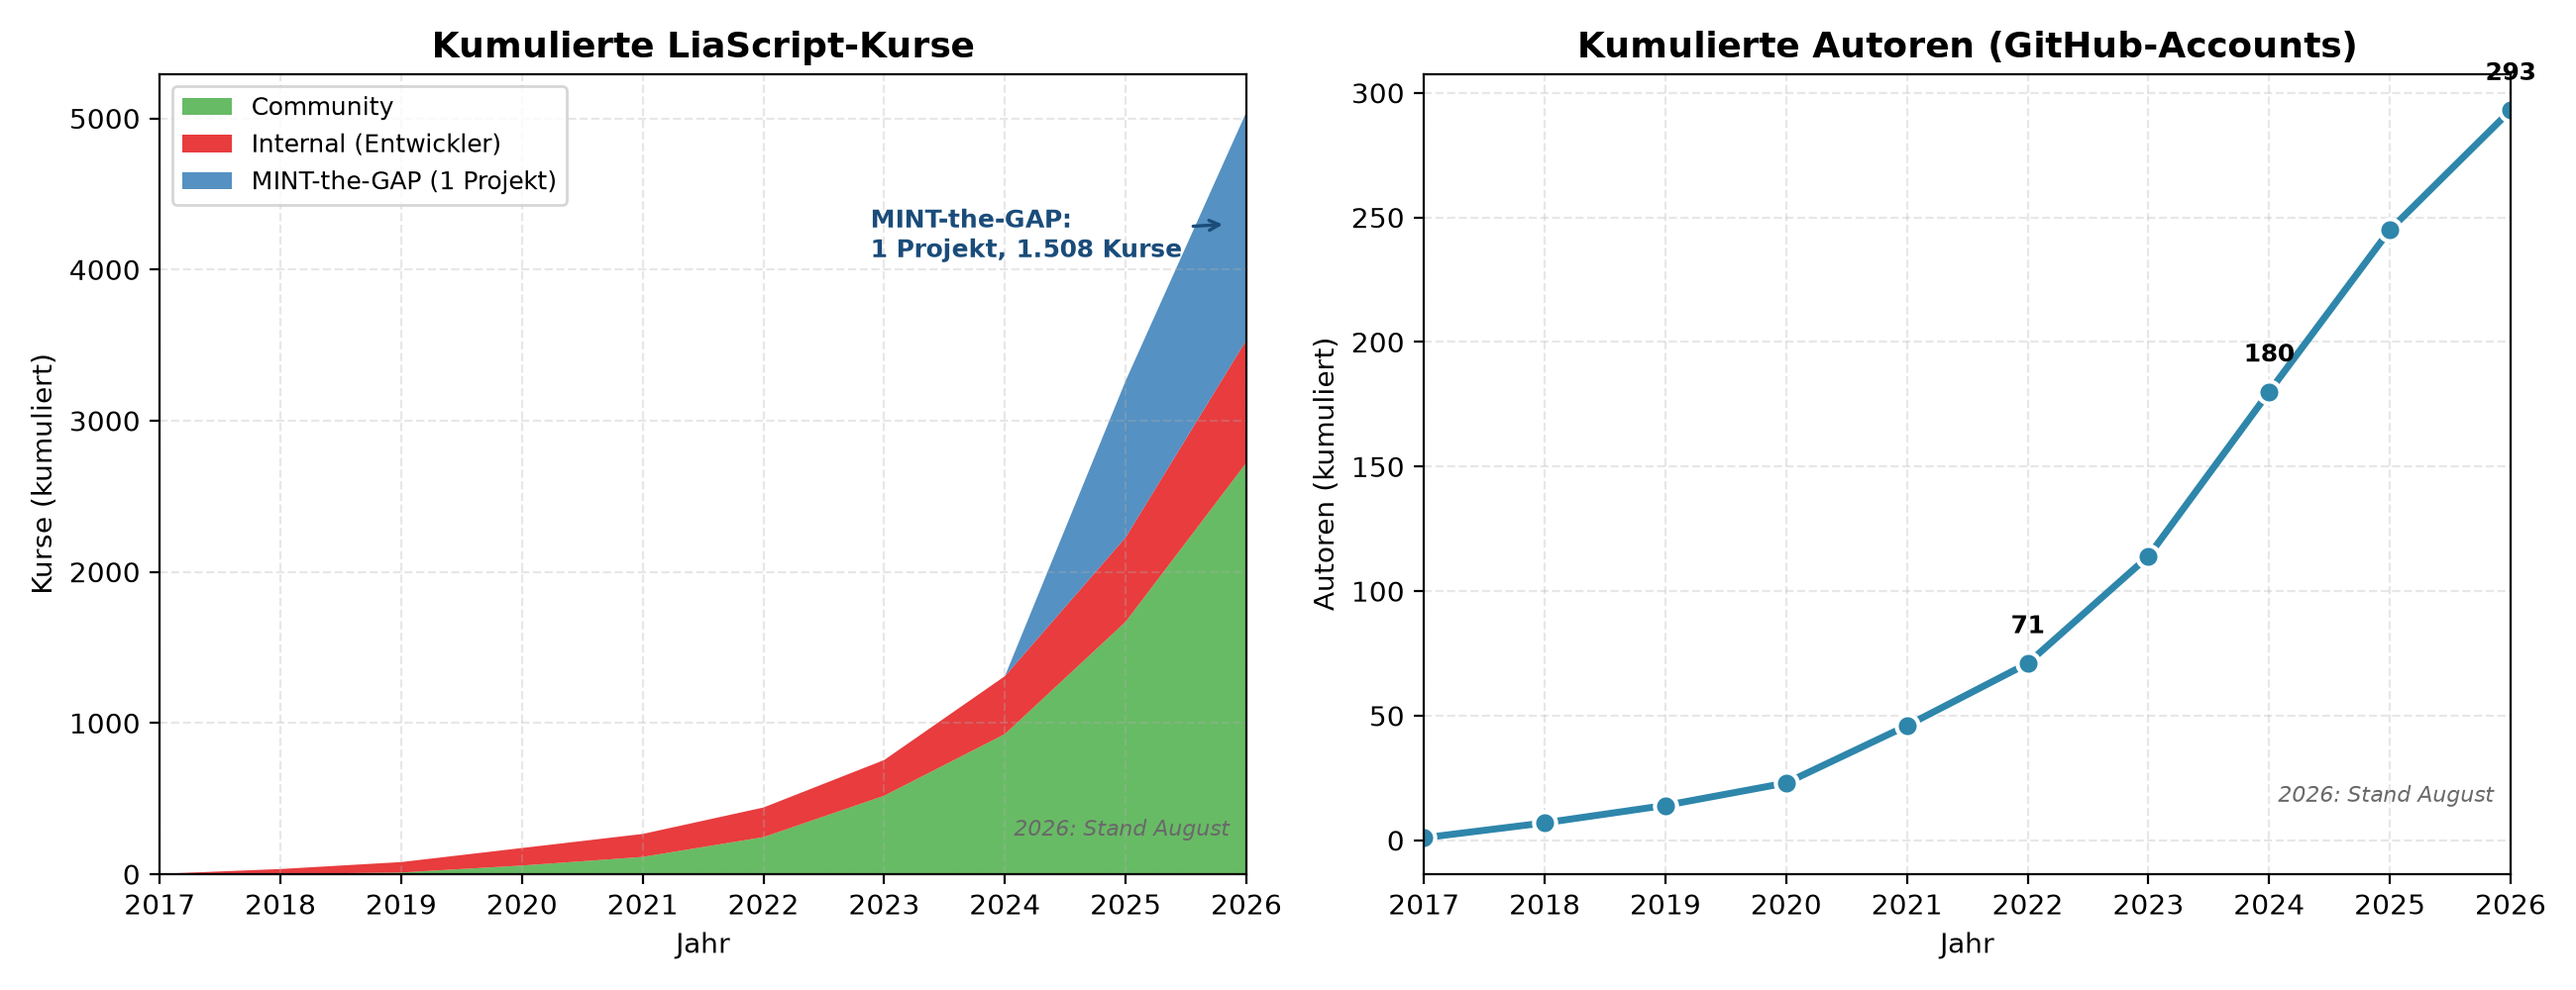
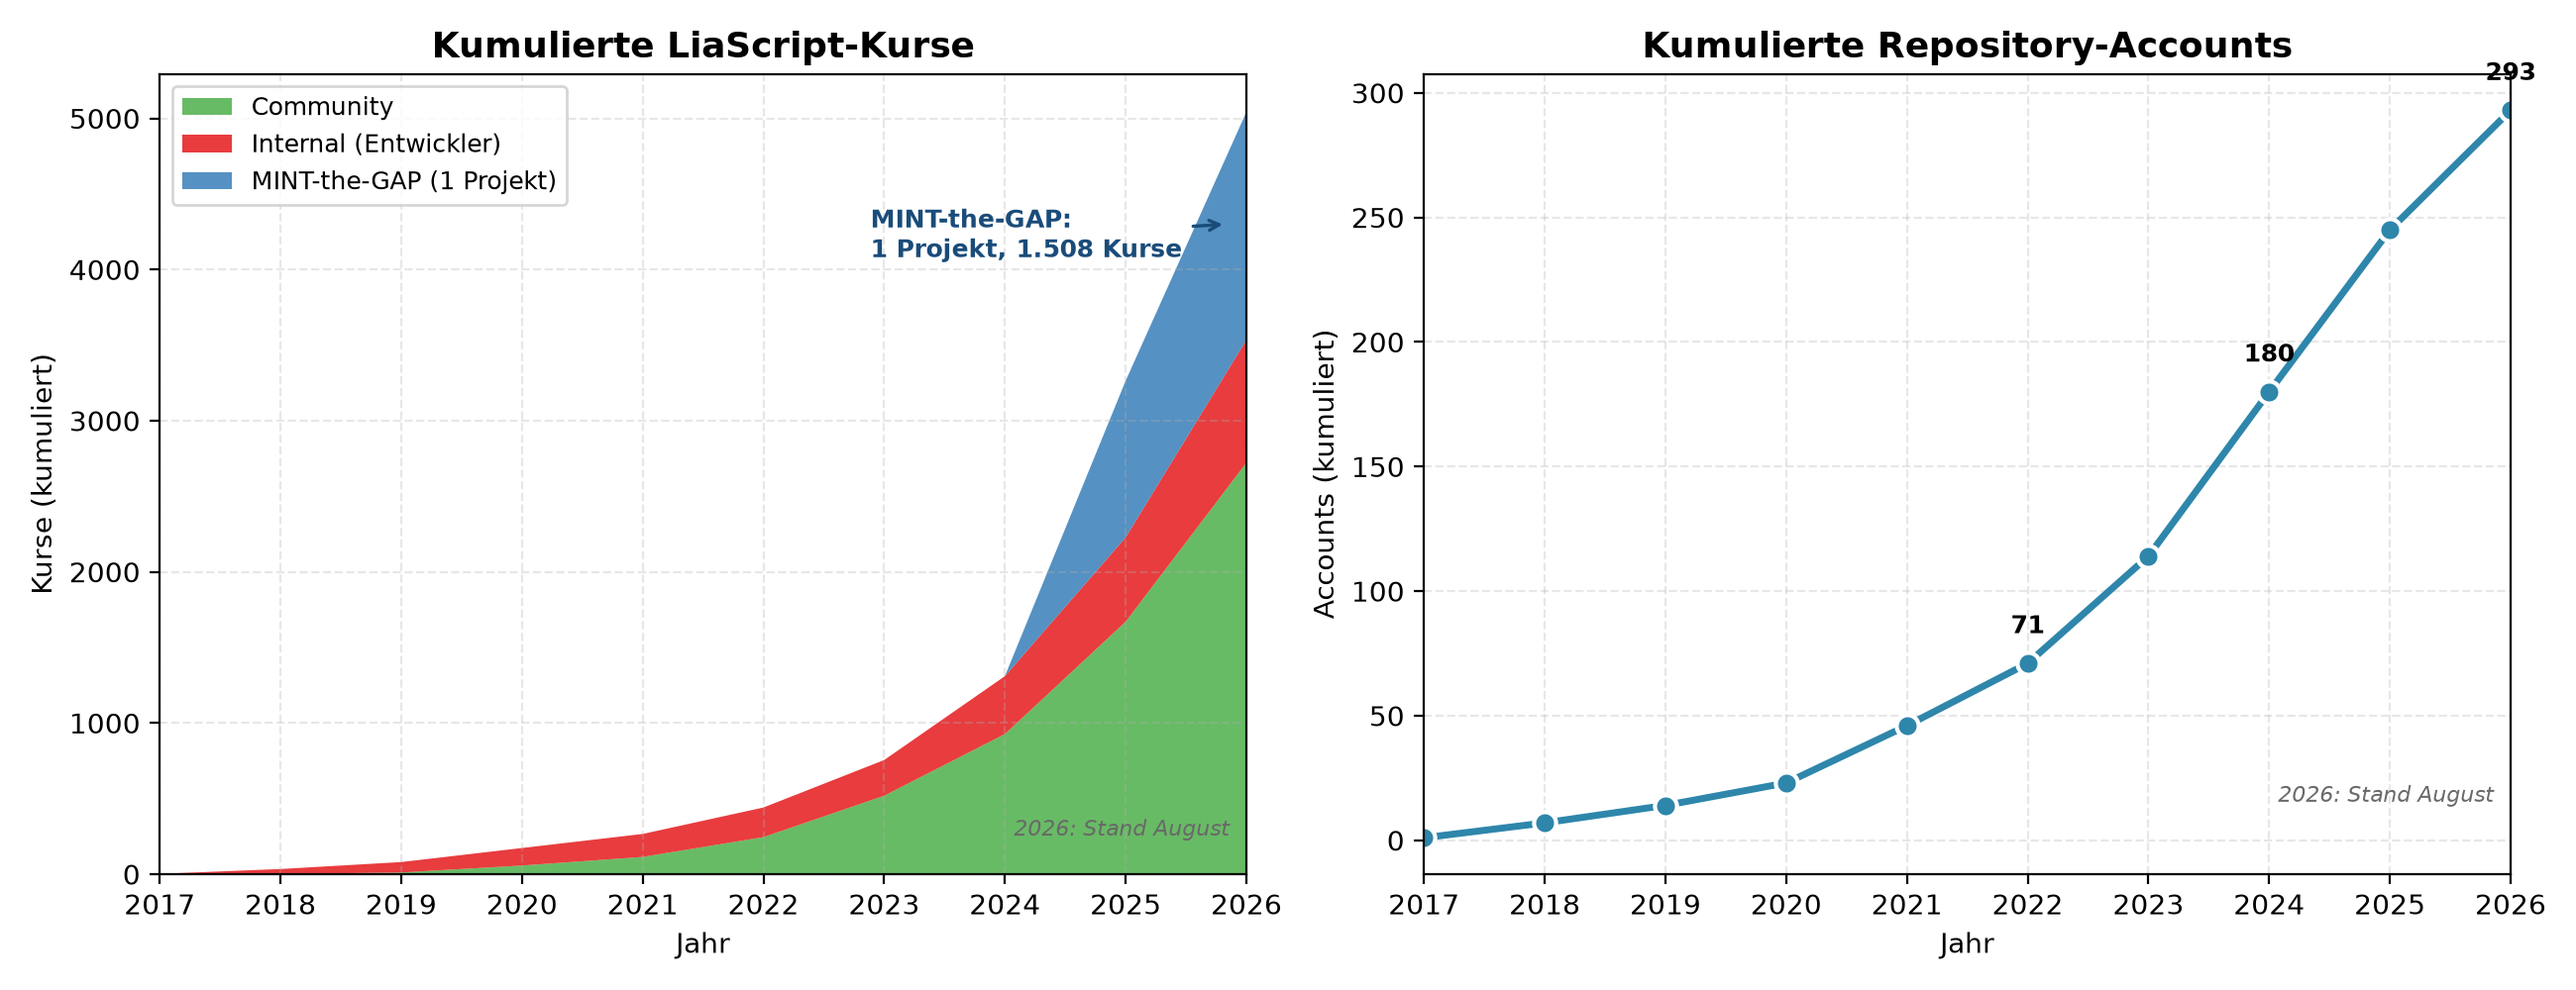
Add pipeline diagram, relabel growth figure, local edits
- "Die Verarbeitungskette" now carries the paper's Fig. 3 rebuilt as a
  mermaid graph (1,076 repos -> 57,096 files -> 3,317 courses -> 2,973),
  with speaker notes
- growth figure axis relabelled: repository accounts, not authors
  (the paper counts 314 committers across 205 accounts)
- corpus slide distinguishes committers from repository accounts and
  notes the March 2026 vintage
- details/summary block for the school-course example fixed
- adds the paper's first page as a screenshot

diff --git a/README.md b/README.md
@@ -58,84 +58,94 @@ edit: true
 
 # Designed but Not Used?
 
-<h2>Feature-Adoption in einem System ohne Telemetrie</h2>
-
-<h4>Sebastian Zug, André Dietrich, Ines Aubel, Martin Lommatzsch, Volker Göhler</h4>
-
-<h4>TU Bergakademie Freiberg · Geschwister-Scholl-Gymnasium Freiberg</h4>
+<h2>A Feature Adoption Analysis of LiaScript Courses</h2>
 
 <div class="cols">
 <div>
 
 > __DELFI 2026 — Die 24. Fachtagung Bildungstechnologien__
 >
-> __September 2026__
+> __Potsdam, September 2026__
 
-Dieser Foliensatz steht unter einer Creative-Commons-Lizenz (CC BY 4.0). Der Quelltext liegt auf [GitHub](https://github.com/LiaPlayground/DELFI_2026_presentation).
 
 </div>
 <div>
 
-![Kumulierte Kurse und Autoren 2017–2026](img/growth.png "Wachstum der LiaScript-Community 2017–2026")
+> **Sebastian Zug$^1$, André Dietrich$^1$, Ines Aubel$^1$, Martin Lommatzsch$^2$, Volker Göhler$^1$**
+>
+> **$^1$TU Bergakademie Freiberg, $^2$Geschwister-Scholl-Gymnasium Freiberg**
+
+
+</div>
+</div>
+
+<div class="cols">
+<div>
+
+Das zugehörige Paper finden Sie in der Digitalen Bibliothek der GI unter [Link](https://dl.gi.de/items/4da2a537-6a46-4f90-9276-618d41e8409b)
+
+![](img/DELFI_Screenshot.png)<!-- style="height:250px" -->
+
+</div>
+<div>
+
+Dieser Vortrag ist unter folgenden [Link](https://liascript.github.io/course/?https://raw.githubusercontent.com/LiaPlayground/DELFI_2026_presentation/main/README.md) zu finden.
+
+[qr-code](https://liascript.github.io/course/?https://raw.githubusercontent.com/LiaPlayground/DELFI_2026_presentation/main/README.md)
 
 </div>
 </div>
 
 ---
 
---{{0}}--
-Herzlich willkommen. Wir haben ein Werkzeug gebaut, das bewusst keine Daten
-über seine Nutzung sammelt — und stehen damit vor einem Problem: Wir wissen
-nicht, was die Leute damit tun. In den nächsten zwanzig Minuten zeige ich
-Ihnen, wie wir das trotzdem herausgefunden haben, und was dabei für unsere
-eigenen Workshops herauskam.
-
-## Was Sie hier gerade sehen
-
-> [!IMPORTANT]
-> **Dieser Vortrag ist selbst ein LiaScript-Dokument und damit eine Textdatei.**
-
-Eine einzige Markdown-Datei, die in Ihrem Browser gerendert wird. Kein Server,
-keine Installation, kein Konto.
+Dieser Foliensatz steht unter einer Creative-Commons-Lizenz (CC BY 4.0). Der Quelltext liegt auf [GitHub](https://github.com/LiaPlayground/DELFI_2026_presentation).
 
 --{{0}}--
-Was Sie gerade sehen, ist selbst ein LiaScript-Kurs — genau das Werkzeug, über
-das wir gleich sprechen. Keine Präsentationssoftware, sondern eine Textdatei,
-die Ihr Browser darstellt.
+Herzlich willkommen. Diese Annotationen fassen die Erläuterungen im Zusammenhang mit der Vorstellung des Papers anlässlich der DELFI 2026 zusammen. Ausgehend vom 
 
-# Teil 1 — LiaScript
+# Was ist LiaScript?
 
-> [!IMPORTANT]
+> [!TIP]
 > **LiaScript ist Markdown — erweitert um genau die Elemente, die für
-> interaktive Lehre fehlen.**
+> interaktive Lehre fehlen. Dabei bleibt alles ein Text - den man beliebig verändern und kompieren kann.**
 
 --{{0}}--
 Zunächst kurz: Was ist LiaScript überhaupt? Für alle, die es noch nicht kennen.
 
-## Ein Kurs ist ein Text
+````markdown @embed.style(height: 520px; min-width: 100%; border: 1px black solid)
+<!--
+import: https://raw.githubusercontent.com/liaTemplates/ABCjs/main/README.md
+-->
+# TU Bergakademie Freiberg
 
-> __Alles wird als reiner Text geschrieben. Probieren Sie es aus — links
-> ändern, rechts zusehen.__
+**Standard Markdown**
 
-```markdown @embed.style(height: 520px; min-width: 100%; border: 1px black solid)
-# Sortierverfahren
+Die Bergakademie wurde **1765** gegründet und ist damit die älteste noch bestehende ~~Montanuniversität~~.
 
-Ein Verfahren ist **effizient**, wenn es mit wachsender Datenmenge
-nicht ~~überproportional~~ langsamer wird.
+**Quizz**
 
-Bubble Sort benötigt $\mathcal{O}(n^2)$ Vergleiche.
+Welches Element wurde in Freiberg entdeckt?
 
-| Verfahren   | Vergleiche              | stabil |
-| ----------- |:-----------------------:| ------:|
-| Bubble Sort | $\mathcal{O}(n^2)$      | ja     |
-| Merge Sort  | $\mathcal{O}(n \log n)$ | ja     |
+[[ (Germanium|Indium) ]]
 
-Welches Verfahren ist **nicht** stabil?
+**Interaktion**
 
-[( )] Bubble Sort
-[(X)] Quick Sort
-[( )] Merge Sort
+``` abc
+X:353
+T: GLUECK AUF DER STEIGER KOEMMT
+N: E1512
+O: Europa, Mitteleuropa, Deutschland
+R: Staende -, Bergmanns - Lied
+M: 4/4
+L: 1/16
+K: G
+| G8F4A4 | G8z8 | B8A4c4 | B8z4G2A2 | B4B4B4A2B2 | c4A3AA4
+A2B2 | c4c4c4B2c2 | d4B3BB4A4 | G8F8 | G4e4d4c2A2 | B8A8 | G8z8
 ```
+@ABCJS.eval
+
+??[Familienschacht Freiberg](https://sketchfab.com/3d-models/familienschacht-freiberg-germany-7c7d30506c554385a4a4321366e2e601 "Quelle: sketchfab.com")
+````
 
 --{{0}}--
 Links der Quelltext, rechts das Ergebnis. Formatierung, Mathematik, Tabellen
@@ -143,6 +153,9 @@ und Quizze — alles in einer Textdatei, alles sofort im Browser. Genau diese
 Bausteine sind es, deren Nutzung wir später vermessen.
 
 ## Sovereignty by Design
+
+> [!IMPORTANT]
+> LiaScript Dokumente werden im Browser interpretiert - die Ausführungsumgebung läuft lokal. 
 
 <div class="cols">
 <div>
@@ -154,7 +167,7 @@ Bausteine sind es, deren Nutzung wir später vermessen.
 </div>
 <div>
 
-> __Autor:innen behalten die volle Kontrolle über ihre Inhalte.__
+> __Autor:innen behalten die volle Kontrolle über ihre Inhalte bzw. teilen diese sehr einfach.__
 >
 > Wir wissen dafür **nicht**, wie LiaScript verwendet wird.
 
@@ -166,97 +179,82 @@ Das ist eine bewusste Designentscheidung: keine Server, keine Konten, keine
 Telemetrie. Für offene Bildungsressourcen ist das genau richtig. Aber es hat
 einen Preis — und der ist der Ausgangspunkt dieses Papers.
 
-## Die Community wächst
+## Die Community wächst ...
 
 ![Kumulierte Kurse und Autoren 2017–2026](img/growth.png)
 
 <div class="bigfact">
-<div class="num">293</div>
-<div class="cap">Autor:innen · 5.042 Kurse (Stand August 2026)</div>
+<div class="num">5.042</div>
+<div class="cap">Kurse in 293 Repository-Accounts · Stand August 2026</div>
 </div>
 
---{{0}}--
-Und es wird benutzt. Seit 2017 wächst die Zahl der Kurse und Autorinnen
-exponentiell. Inzwischen sind es fast dreihundert unabhängige Autor:innen.
-Das ist keine Werkzeugnutzung mehr, das ist eine Community.
+> __... und damit die Nachfrage nach Tutorials und Workshops.__
 
-     {{1}}
-> Die blaue Fläche ist **ein einziges Projekt**. Merken Sie sich das.
-
---{{1}}--
-Eine Sache fällt auf: Diese blaue Fläche ab 2025 ist kein Community-Wachstum,
-sondern ein einzelnes Projekt mit über tausend Kursen. Merken Sie sich das,
-wir kommen darauf zurück.
-
-# Teil 2 — Das Problem
+# Das Problem
 
 > [!IMPORTANT]
-> **Wir bauen Workshops und Tutorials. Für wen eigentlich?**
+> **Wer ist eigentlich die Zielgruppe und welche Feature sollten dort fokussiert werden?**
 
---{{0}}--
-Jetzt zum eigentlichen Problem — und das ist kein LiaScript-Problem, sondern
-eines, das viele von Ihnen kennen dürften.
+<details>
+<summary>Sachkundeunterricht Klasse 4 - Adrian Nemetschek - ([Link zum Material](https://github.com/aua-einiges/LiaScript_Sachunterricht_Lernbereich3/blob/main/DL_Sachunterricht1_Nem%20(1).md)</summary>
 
-## Entscheidungen ohne Datengrundlage
+<iframe
+  src="https://liascript.github.io/course/?https://raw.githubusercontent.com/aua-einiges/LiaScript_Sachunterricht_Lernbereich3/main/DL_Sachunterricht1_Nem%20(1).md#3"
+  style="width:100%; height:80vh; border:1px solid #ccc"
+  allowfullscreen>
+</iframe>
 
-Wir führen regelmäßig Workshops durch — und entscheiden dabei laufend:
+</details>
 
-     {{0}}
-- Welche Features zeigen wir zuerst?
-- Was lassen wir weg?
-- Wo hakt es in der Praxis?
+<details>
+<summary>Fonts Template für wissenschaftliche Community - André Dietrich - ([Link zum Material](https://liascript.github.io/course/?https://raw.githubusercontent.com/LiaPlayground/Fonts/main/README.md#6))</summary>
 
-     {{1}}
-> [!WARNING]
-> **Bisher: Bauchgefühl.**
+<iframe
+  src="https://liascript.github.io/course/?https://raw.githubusercontent.com/LiaPlayground/Fonts/main/README.md#2"
+  style="width:100%; height:80vh; border:1px solid #ccc"
+  allowfullscreen>
+</iframe>
 
---{{0}}--
-Bei jedem Workshop stellt sich dieselbe Frage: Womit fangen wir an? Was ist
-wichtig, was können wir weglassen? Und ehrlicherweise haben wir das bisher
-nach Gefühl entschieden.
+</details>
 
---{{1}}--
-Wir hatten schlicht keine Grundlage für diese Entscheidungen.
+> [!TIP]
+> __Die Vermutung, dass unterschiedliche Anwendungskontexte eine verschiedene Nutzungsmuster zeigen ist offensichtlich, aber wie können wir das nachweisen?__
 
-## Eine Frage an Sie
-
-<div class="bigfact">
-<div class="cap">Wer von Ihnen entwickelt Lehrmaterial oder Werkzeuge,<br>
-<b>ohne</b> zu wissen, wie sie tatsächlich genutzt werden?</div>
-</div>
-
-     {{1}}
-> [!NOTE]
-> Genau dieses Problem haben dezentrale, datensparsame Systeme —
-> strukturell und dauerhaft.
-
---{{0}}--
-Kurze Frage in die Runde — und ich vermute, es gehen einige Hände hoch.
-
---{{1}}--
-Das ist der Punkt: Datensparsamkeit und Wissen über die eigene Nutzerschaft
-stehen in einem echten Zielkonflikt. Wer das eine will, verliert das andere.
-
-# Teil 3 — Methodik
+# Methodik der Analyse
 
 > [!IMPORTANT]
-> **Kurse liegen in öffentlichen Repositories. Das ist der einzige Kanal,
-> über den wir Nutzung beobachten können.**
+> **Kurse liegen in öffentlichen Repositories. Das ist der einzige Kanal, über den wir Nutzung beobachten können.**
 
---{{0}}--
-Unser Ausweg: Wenn wir die Nutzung nicht messen können, schauen wir uns an,
-was die Leute veröffentlichen.
+<details>
+
+<summary>LiaScript Gehversuche - Irina Feldbrügge - ([Link zum Material](https://liascript.github.io/course/?https://raw.githubusercontent.com/LiaPlayground/Fonts/main/README.md#6))</summary>
+
+<iframe
+  src="https://liascript.github.io/course/?https://raw.githubusercontent.com/IRFE2023/LIASCRIPT/refs/heads/main/warum.md#1"
+  style="width:100%; height:80vh; border:1px solid #ccc"
+  allowfullscreen>
+</iframe>
+
+</details>
+
+> [!TIP]
+> Die manuelle Erfassung der Rückmeldungen der Nutzenden ist offenbar kein geeignetes Vorgehensmodell.
 
 ## Der Korpus
 
 <div class="cols">
 <div>
 
+<!-- data-type="none" -->
 | | |
 |---|---|
 | Validierte Kurse | **3.317** |
-| Autor:innen | **314** |
-| Stand | März 2026 |
+| Committer | **314** |
+| Repository-Accounts | **205** |
+| Stand | **März 2026** |
+
+*Die Analyse nutzt den Stand von März 2026 — der Korpus ist seither
+weiter gewachsen.*
 
 </div>
 <div>
@@ -279,6 +277,50 @@ Wir haben gut dreitausend validierte Kurse von GitHub eingesammelt und jeden
 daraufhin untersucht, welche der vierundvierzig LiaScript-Features darin
 vorkommen. Eine wichtige Einschränkung gleich vorweg: Wir sehen, was
 Autor:innen einbauen — nicht, was Lernende davon tatsächlich nutzen.
+
+## Die Verarbeitungskette
+
+```mermaid
+graph LR
+  A["Repository-Suche<br/>GitHub Search API<br/><b>1.076 Repos</b>"]
+  B["Datei-Extraktion<br/>Tree API + Heuristik<br/><b>57.096 Dateien</b>"]
+  C["Validierung<br/>Regeln + LLM<br/><b>3.317 Kurse</b><br/><i>5,8 % der Dateien</i>"]
+  D["Header-Metadaten<br/><b>99,4 % Abdeckung</b>"]
+  E["Feature-Erkennung<br/><b>44 Regex-Muster</b>"]
+  F["KI-Klassifikation<br/>llama3.3:70b<br/><b>Bildungsstufe</b>"]
+  G["Konsolidierung<br/><b>2.973 Kurse</b>"]
+
+  A --> B --> C
+  C --> D --> G
+  C --> E --> G
+  C --> F --> G
+
+  style A fill:#e3f0fa,stroke:#2E86AB
+  style B fill:#e3f0fa,stroke:#2E86AB
+  style C fill:#fdf0e0,stroke:#F18F01
+  style D fill:#e6f5f2,stroke:#1ABC9C
+  style E fill:#e6f5f2,stroke:#1ABC9C
+  style F fill:#f0e9f7,stroke:#9B59B6
+  style G fill:#eeeeee,stroke:#333
+```
+
+     {{1}}
+> [!NOTE]
+> Von **57.096 Dateien** bleiben **3.317 Kurse** — und für den
+> Gruppenvergleich **2.973** mit eindeutiger Bildungsstufe.
+
+--{{0}}--
+Wie kommen wir zu diesen Zahlen? Wir starten mit einer Repository-Suche über
+die GitHub-API und ziehen daraus alle Markdown-Dateien — siebenundfünfzigtausend
+Kandidaten. Die Validierung ist der entscheidende Schritt: regelbasiert, wo die
+Indikatoren eindeutig sind, mit einem Sprachmodell dort, wo es unklar ist.
+Übrig bleiben dreitausenddreihundert echte Kurse, also knapp sechs Prozent.
+
+--{{1}}--
+Danach laufen drei Zweige parallel: Header-Metadaten, die Feature-Erkennung mit
+vierundvierzig Mustern, und eine KI-gestützte Einordnung der Bildungsstufe.
+Letztere ist die Grundlage für den Gruppenvergleich, den Sie gleich sehen —
+dafür bleiben knapp dreitausend Kurse mit eindeutiger Zuordnung.
 
 # Teil 4 — Ergebnisse
 
